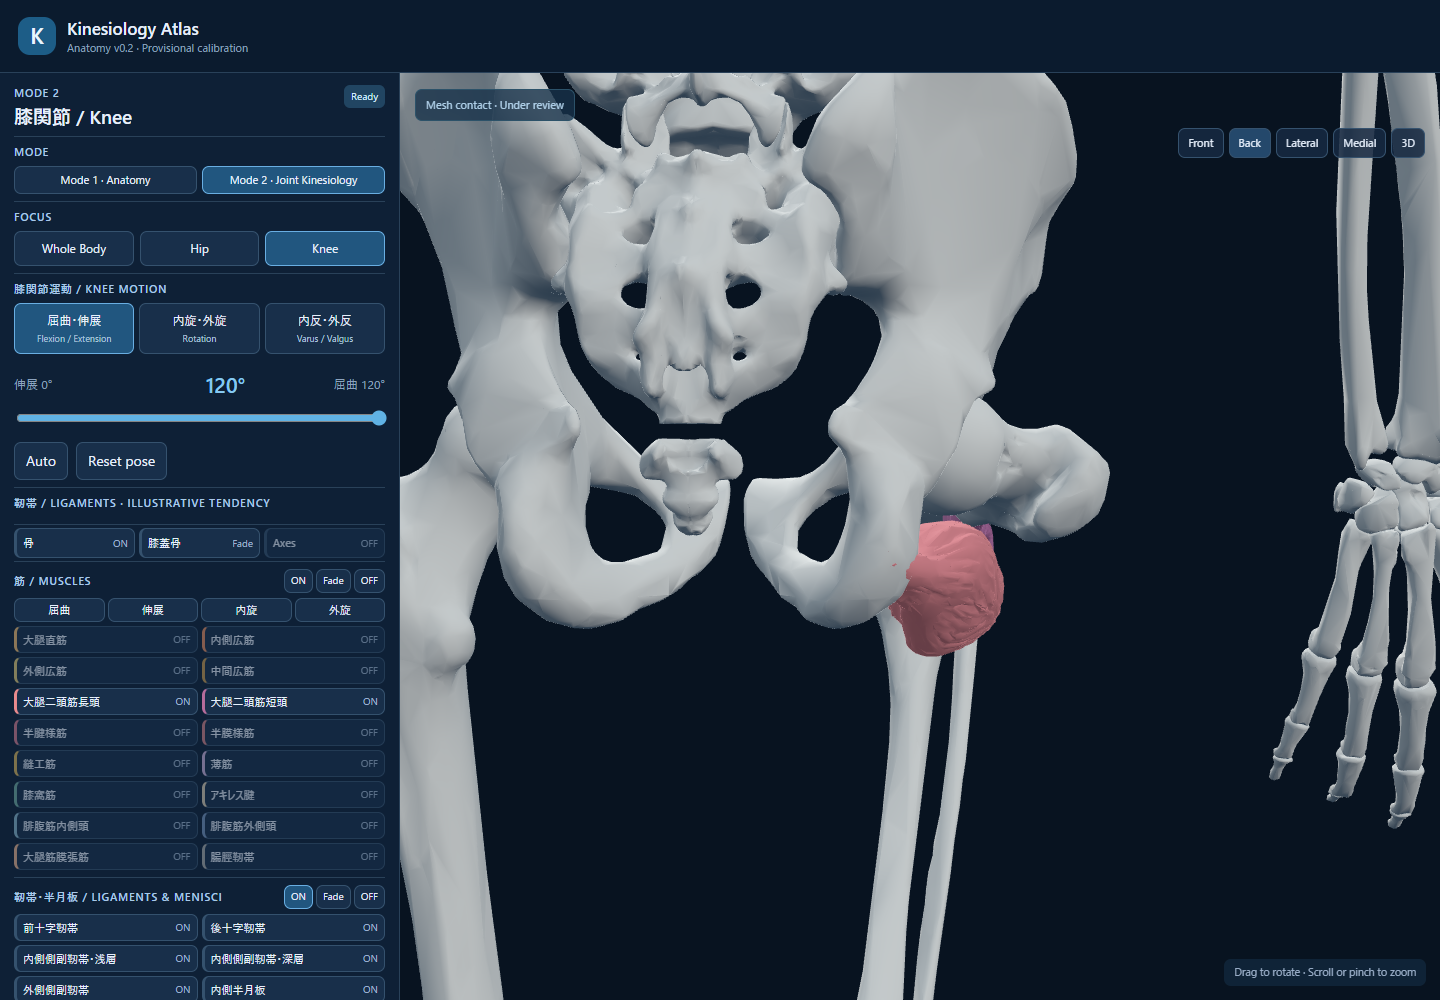
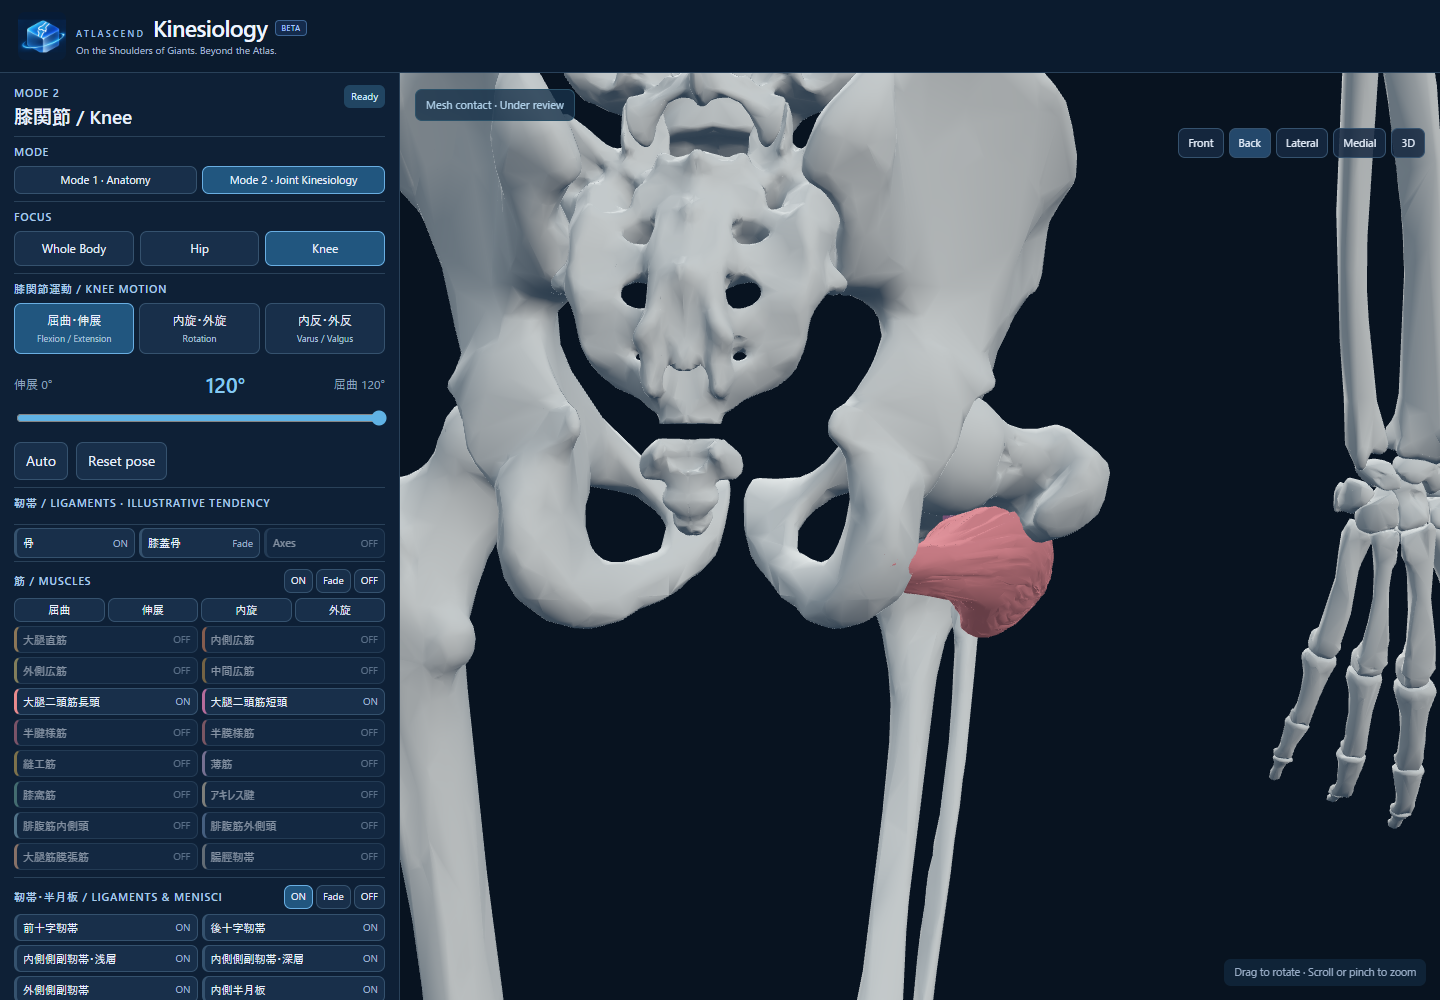
Apply the approved ATLASCEND Kinesiology header and brand assets

Changed region(s): [[0.5938, 0.496, 0.75, 0.682], [0.0, 0.0, 0.2188, 0.062]]

diff --git a/tests/ui/brand-header.spec.js b/tests/ui/brand-header.spec.js
@@ -1,0 +1,7 @@
+import {test,expect} from '@playwright/test';
+import {mkdirSync} from 'node:fs';
+test('approved ATLASCEND header stays compact across desktop tablet and phone',async({page})=>{
+ const errors=[];page.on('pageerror',e=>errors.push(e.message));await page.goto('http://127.0.0.1:8080/?review=muscles&axis=condyle&qa');await expect(page.locator('#modelStatus')).toHaveText('Ready',{timeout:90000});await expect(page).toHaveTitle('ATLASCEND — Kinesiology (BETA)');await expect(page.locator('.brandWordmark')).toHaveText('ATLASCEND');await expect(page.locator('.brandLine strong')).toHaveText('Kinesiology');await expect(page.locator('.brandBeta')).toHaveText('BETA');await expect(page.locator('.brandTagline')).toHaveText('On the Shoulders of Giants. Beyond the Atlas.');expect(await page.locator('.brandIcon').evaluate(e=>e.complete&&e.naturalWidth===512)).toBeTruthy();expect((await page.request.get('http://127.0.0.1:8080/assets/brand/kinesiology-icon.png')).status()).toBe(200);expect((await page.request.get('http://127.0.0.1:8080/site.webmanifest')).status()).toBe(200);await expect(page.locator('.topbar [data-mode]')).toHaveCount(0);
+ mkdirSync('docs/screenshots/brand',{recursive:true});for(const [width,height] of [[1440,900],[1280,800],[768,1024],[390,844],[320,740]]){await page.setViewportSize({width,height});const q=await page.evaluate(()=>{const rect=e=>{const r=e.getBoundingClientRect();return {left:r.left,right:r.right,top:r.top,bottom:r.bottom,height:r.height}};return {header:rect(document.querySelector('.topbar')),brand:rect(document.querySelector('.brand')),tagline:rect(document.querySelector('.brandTagline')),panel:rect(document.querySelector('#mobilePanel')),scroll:document.documentElement.scrollWidth,width:innerWidth};});expect(q.header.height).toBe(width<=740?63:73);expect(q.scroll).toBeLessThanOrEqual(width);expect(q.tagline.right).toBeLessThanOrEqual(width-8);if(width<=740)expect(q.tagline.right).toBeLessThan(q.panel.left-3);await page.screenshot({path:'docs/screenshots/brand/'+width+'.png'});}
+ await page.setViewportSize({width:1280,height:800});await page.locator('[data-focus="hip"]').click();const before=await page.evaluate(()=>atlasQA());const canvas=await page.locator('canvas').elementHandle();await page.locator('[data-mode="anatomy"]').click();const after=await page.evaluate(()=>atlasQA());expect(after.focus).toBe('hip');expect(after.camera).toEqual(before.camera);expect(after.states).toEqual(before.states);expect(await canvas.evaluate(e=>e===document.querySelector('canvas'))).toBeTruthy();expect(errors).toEqual([]);
+});

diff --git a/index.html b/index.html
@@ -1,10 +1,18 @@
 <!doctype html>
 <html lang="en"><head><meta charset="utf-8"><meta name="viewport" content="width=device-width,initial-scale=1,viewport-fit=cover">
-<title>Kinesiology Atlas — Anatomy v0.2</title>
+<title>ATLASCEND — Kinesiology (BETA)</title>
+<meta name="description" content="On the Shoulders of Giants. Beyond the Atlas. Interactive anatomy and joint kinesiology.">
+<meta name="theme-color" content="#0b1b2e">
+<meta property="og:site_name" content="ATLASCEND">
+<meta property="og:title" content="ATLASCEND — Kinesiology (BETA)">
+<meta property="og:description" content="On the Shoulders of Giants. Beyond the Atlas.">
+<link rel="icon" type="image/png" href="assets/brand/kinesiology-icon.png">
+<link rel="apple-touch-icon" href="assets/brand/kinesiology-icon.png">
+<link rel="manifest" href="site.webmanifest">
 <link rel="stylesheet" href="src/style.css">
 <script type="importmap">{"imports":{"three":"./vendor/three/build/three.module.js","three/addons/":"./vendor/three/addons/"}}</script>
 </head><body>
-<header class="topbar"><div class="brand"><div class="brandmark">K</div><div><strong>Kinesiology Atlas</strong><small>Anatomy v0.2 · Provisional calibration</small></div></div><button id="mobilePanel" class="mobileOnly">Panel</button></header>
+<header class="topbar"><div class="brand" aria-label="ATLASCEND Kinesiology"><img class="brandIcon" src="assets/brand/kinesiology-icon.png" width="48" height="48" alt="" fetchpriority="high"><div class="brandText"><div class="brandLine"><span class="brandWordmark">ATLASCEND</span><strong>Kinesiology</strong><span class="brandBeta">BETA</span></div><small class="brandTagline">On the Shoulders of Giants. Beyond the Atlas.</small></div></div><button id="mobilePanel" class="mobileOnly">Panel</button></header>
 <div class="layout"><aside class="sidebar" id="sidebar">
  <div class="sectionhead"><div><div class="eyebrow" id="sectionEyebrow">MODE 1</div><h1 id="sectionTitle">Whole Body</h1></div><span id="modelStatus" class="status">Loading</span></div>
  <div class="group modeSelection"><label class="smallhead">Mode</label><nav class="modes" aria-label="Mode"><button class="selected" data-mode="anatomy">Mode 1 · Anatomy</button><button data-mode="kinesiology">Mode 2 · Joint Kinesiology</button></nav></div>

diff --git a/src/style.css b/src/style.css
@@ -52,3 +52,8 @@
 @media(min-width:741px) and (max-height:850px){.sidebar .modeSelection{display:flex;align-items:center;gap:7px}.sidebar .modeSelection>.smallhead{margin:0}.sidebar[data-joint=hip] .tissueList button{min-height:19px;font-size:10px}.sidebar[data-joint=hip] .angleLabels{margin-top:5px}.sidebar[data-joint=hip] .inlineActions{margin-top:5px}}
 
 @media(min-width:741px) and (max-height:850px){.sidebar[data-joint=hip]:not([data-joint=body]) .tissueList button{min-height:19px;padding-top:0;padding-bottom:0}.sidebar[data-joint=hip] .structureHeading{margin-bottom:2px}.sidebar[data-joint=hip] .group{padding-top:2px;padding-bottom:2px}}
+
+/* ATLASCEND approved identity: keep the existing 73/63px viewport contract. */
+.topbar{background:#0b1b2e}.brand{gap:10px;min-width:0}.brandIcon{width:48px;height:48px;flex:none;object-fit:contain;border-radius:7px}.brandText{min-width:0}.brandLine{display:flex;align-items:baseline;gap:8px;white-space:nowrap}.brandWordmark{font-size:9px;letter-spacing:.24em;font-weight:700;color:#9bbfe4}.brand .brandLine strong{font-size:23px;font-weight:750;line-height:1.1;letter-spacing:-.025em;color:#edf4ff}.brandBeta{font-size:8px;line-height:1;padding:3px 5px;border:1px solid #3d6594;border-radius:4px;background:#142b4c;color:#a8caff;letter-spacing:.05em;align-self:center}.brand .brandTagline{display:block;margin-top:3px;font-size:10px;line-height:1.3;color:#a6bad1;white-space:nowrap}
+@media(max-width:740px){.topbar{padding:6px 8px}.brand{width:auto;max-width:calc(100% - 58px);gap:6px}.brandIcon{width:38px;height:38px}.brandLine{gap:5px}.brandWordmark{font-size:7px;letter-spacing:.17em}.brand .brandLine strong{font-size:18px}.brandBeta{font-size:7px;padding:2px 3px}.brand .brandTagline{font-size:8px;margin-top:3px}.mobileOnly{top:17px;font-size:11px;padding:4px 6px}}
+@media(max-width:380px){.brandLine{gap:4px}.brandIcon{width:32px;height:32px}.brandWordmark{font-size:6px;letter-spacing:.12em}.brand .brandLine strong{font-size:16px}.brand .brandTagline{font-size:7.1px}}

diff --git a/docs/FINAL_CURVATURE_AND_BRAND.md b/docs/FINAL_CURVATURE_AND_BRAND.md
@@ -1,0 +1,27 @@
+# ATLASCEND Kinesiology: 中間走行と承認ブランド統合
+
+2026-11-04。基準は6b5f42eの動作版。変更前はGit履歴に保持し、.cache/pre-final-6b5f42e.zipにも保全した。
+
+## 長頭の中間のアール
+
+ユーザーが指定した2つの端点は05dd0adの湾曲走行と6b5f42eの直線寄りの走行。両者を同じ元メッシュの起始・停止へ対応させ、長頭の全長ガイドを50%ずつ補間する。全長に分配した短縮と実付着部だけの固定、連続的な表面参照は維持する。短頭・腓腹筋・他筋の走行式は変更しない。
+
+同一GLB・同一120°肢位で3版を比較した。筋腹の前後座標から独立に測った中間位置は51.1%。短頭との近接表面距離は直線版24.05mmから11.53mmへ縮小し、筋腹付近の中央値も41.43mmから30.46mmへ縮小。遠位筋腹と腓腹筋外側頭との表面距離中央値は30.43mmから41.75mm。最近接1点の距離だけで埋没の有無は断定せず、全筋表示の側面・筋別表示も確認する。比較データはbiceps-midpoint-comparison.json。
+
+以前の「最も直線的」な状態を固定する方向変化<10°は、新しい中間Rの要求に合わせ<15°へ変更。余長比<1.06、単調な短縮、実付着追従、Auto再生の角度あたり頂点移動と差分速度変化の上限は維持する。実際のAuto 57フレームで、2°相当の最大移動2.385mm、差分速度変化0.555mm。物理的な張力や全三角形接触の解析ではない。
+
+## 承認済みブランド
+
+資料の正式表記ATLASCEND / Kinesiology、BETA、On the Shoulders of Giants. Beyond the Atlas.を採用する。通常ヘッダーは文字なし承認アイコンと独立したテキスト要素で構成し、同梱プレビューの横並びでコンパクトな階層に合わせる。日本語理念はCreditsに追加した。キューブ・リング・膝関節図の再生成や画像の作り替えは行わない。
+
+assets/brand/kinesiology-icon.pngは提供PNGをそのままコピー。SHA-256: 0cd55fd8664064fba72616c64c932b07f6f25b3ce21a6750d725ab270bc90938。ヘッダー、favicon、apple-touch-icon、manifestで同一資産を使用する。タイトルと共有用メタデータも更新。
+
+ヘッダーはPC73px、モバイル63pxの既存領域に収める。1440/1280/768/390/320px幅を検査し、画像読み込み、文字とPanelの衝突、横スクロール、同一canvasとカメラ・表示状態を保つMode切替を確認する。Modeは左UIのFocus直前のまま。既存の公開Brain/Hipサイトには変更しない。
+
+ブランドPDF・プレビュー画像の古いUIやコードは上書きしない。現在のリポジトリコードを土台として、ヘッダー差分だけを統合した。
+
+## 確認版と配布
+
+既存の開発ブランチ/下書きPRに保存し、GitHub Pagesへ公開する操作やmainへのマージは行わない。配布用ZIPは現行リポジトリのルート階層で作成し、index.html・src・assets/brand・vendorを含む1つの修正版を案内する。解剖GLBの配布条件は既存Creditsに従う。
+
+最終結果：構文チェック・単体41件・ブラウザ9件（中間走行/実Auto、ブランドの5画面幅、Hip一括、連続筋/付着/ホバー、再生2件、Hip/Knee共有、短頭、全筋層）成功。brand-headerとhip-bulkで800px高の既存レイアウトとMode継続性も確認した。

diff --git a/README.md b/README.md
@@ -1,14 +1,10 @@
-# Kinesiology Atlas — Anatomy v0.2
+# ATLASCEND — Kinesiology (BETA)
 
-Anatomy優先の改修版と、同一3DシーンでJoint Kinesiologyへ切り替える基盤です。既存の `kharuyama-lab/hip-kinesiology` は変更していません。
+On the Shoulders of Giants. Beyond the Atlas.
 
-Hipの骨・筋・靭帯の一括ON／Fade／OFFと、Focus直前のMode選択を復元しました。検証記録: [HIP_UI_RESTORATION](docs/HIP_UI_RESTORATION.md)。
+AnatomyとJoint Kinesiologyを同じ3Dシーンで切り替える教材です。既存の `kharuyama-lab/hip-kinesiology` は変更していません。
 
-大腿二頭筋短頭のみの走行修正：[変更・検証記録](docs/SHORT_HEAD_COURSE.md)。
-
-大腿二頭筋の長頭・短頭の層関係と長頭の変形修正：[変更・検証記録](docs/BICEPS_LAYER_SUPPORT.md)。
-
-長頭の停止側の折り返し・動作時の震えの修正：[変更・検証記録](docs/BICEPS_DISTAL_CONTINUITY.md)。
+最新版は、長頭の走行を前の湾曲版と直線版の中間へ調整し、承認済みATLASCENDヘッダーを統合しています。[変更・検証記録](docs/FINAL_CURVATURE_AND_BRAND.md)。
 
 ## 起動
 

diff --git a/CREDITS_AND_LICENSES.md b/CREDITS_AND_LICENSES.md
@@ -12,3 +12,11 @@
 - SIMM spline algorithm ported from OpenSim/Common/SimmSpline.cpp, Peter Loan / Stanford University and Authors, Apache-2.0. License and notice: `vendor/opensim`.
 
 Content is for teaching anatomical relationships. Movements/ligament tables are schematic, not clinical diagnosis, validated force estimation or quantitative tissue strain.
+
+## ATLASCEND identity
+
+ATLASCEND — Kinesiology (BETA). On the Shoulders of Giants. Beyond the Atlas.
+
+巨人の肩に立ち、知の地図のその先へ。
+
+The header and application icon use the user-provided, approved Kinesiology asset from the 2026-11-04 brand handover. The cube, orbital ring and knee symbol are preserved without regeneration. Brand artwork is separate from the third-party anatomy/model licenses above; no additional artwork license is inferred.
